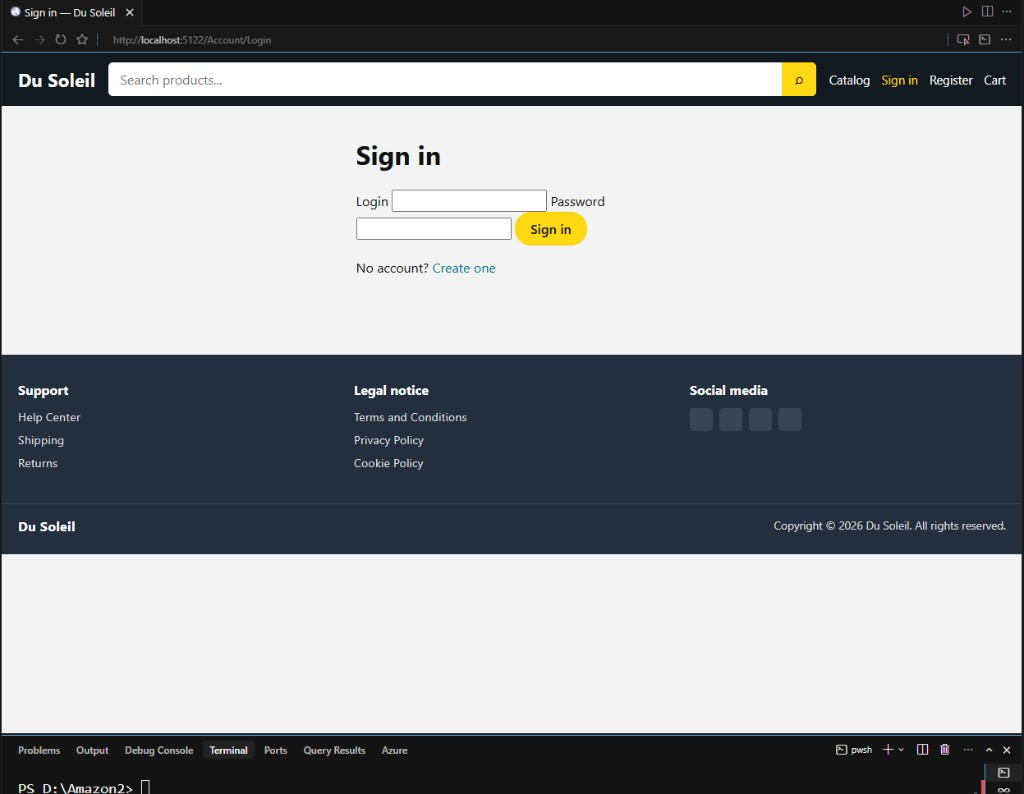
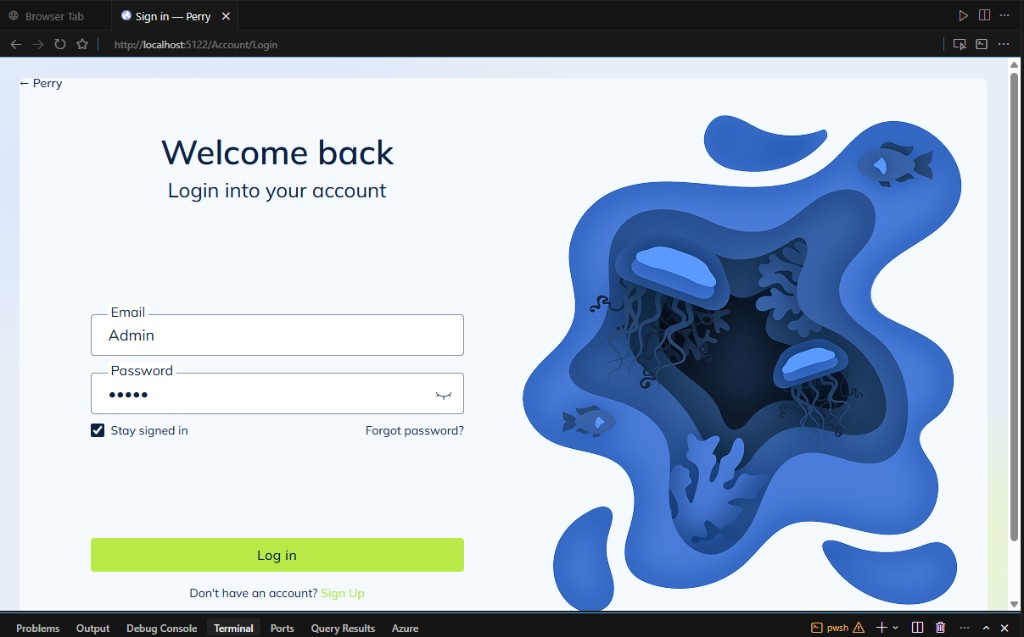
Update Sign in screenshot to the new Perry auth UI.
Replace docs/screenshots/03-login.png used in README with the current Account/Login screen.

diff --git a/docs/screenshots/README.md b/docs/screenshots/README.md
@@ -34,7 +34,7 @@ Hero «Everything you love, delivered», блок Shop by category, Trending dea
 
 ![Sign in](./03-login.png)
 
-Форма Login / Password, ссылка на регистрацию. Общий layout с поиском и футером.
+UI из perry-front: «Welcome back», Email / Password, Stay signed in, кнопка Log in, иллюстрация справа. Layout `_AuthLayout` (без старой Amazon-шапки).
 
 ---
 